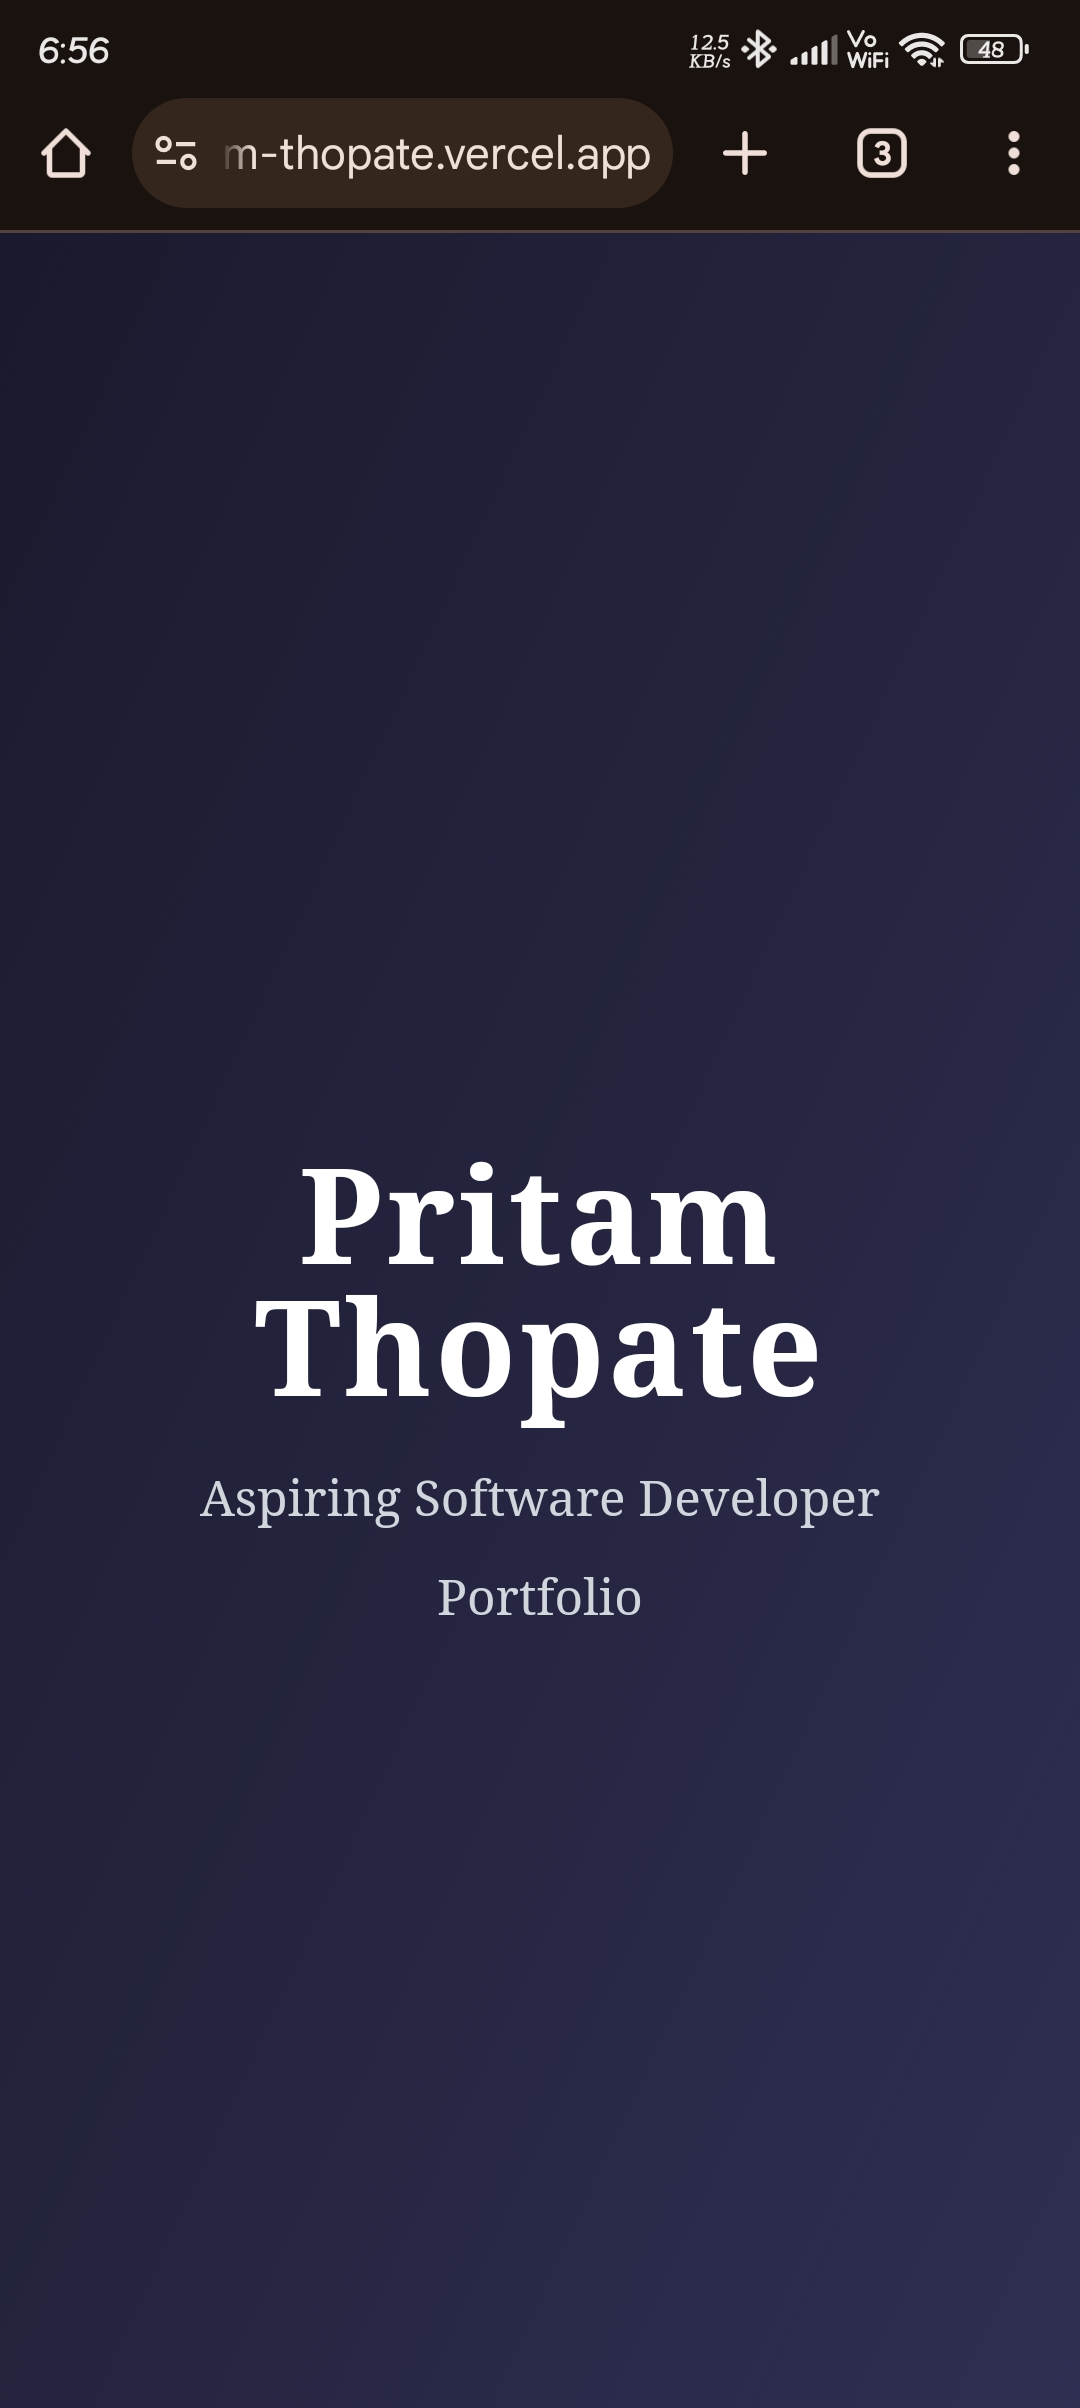
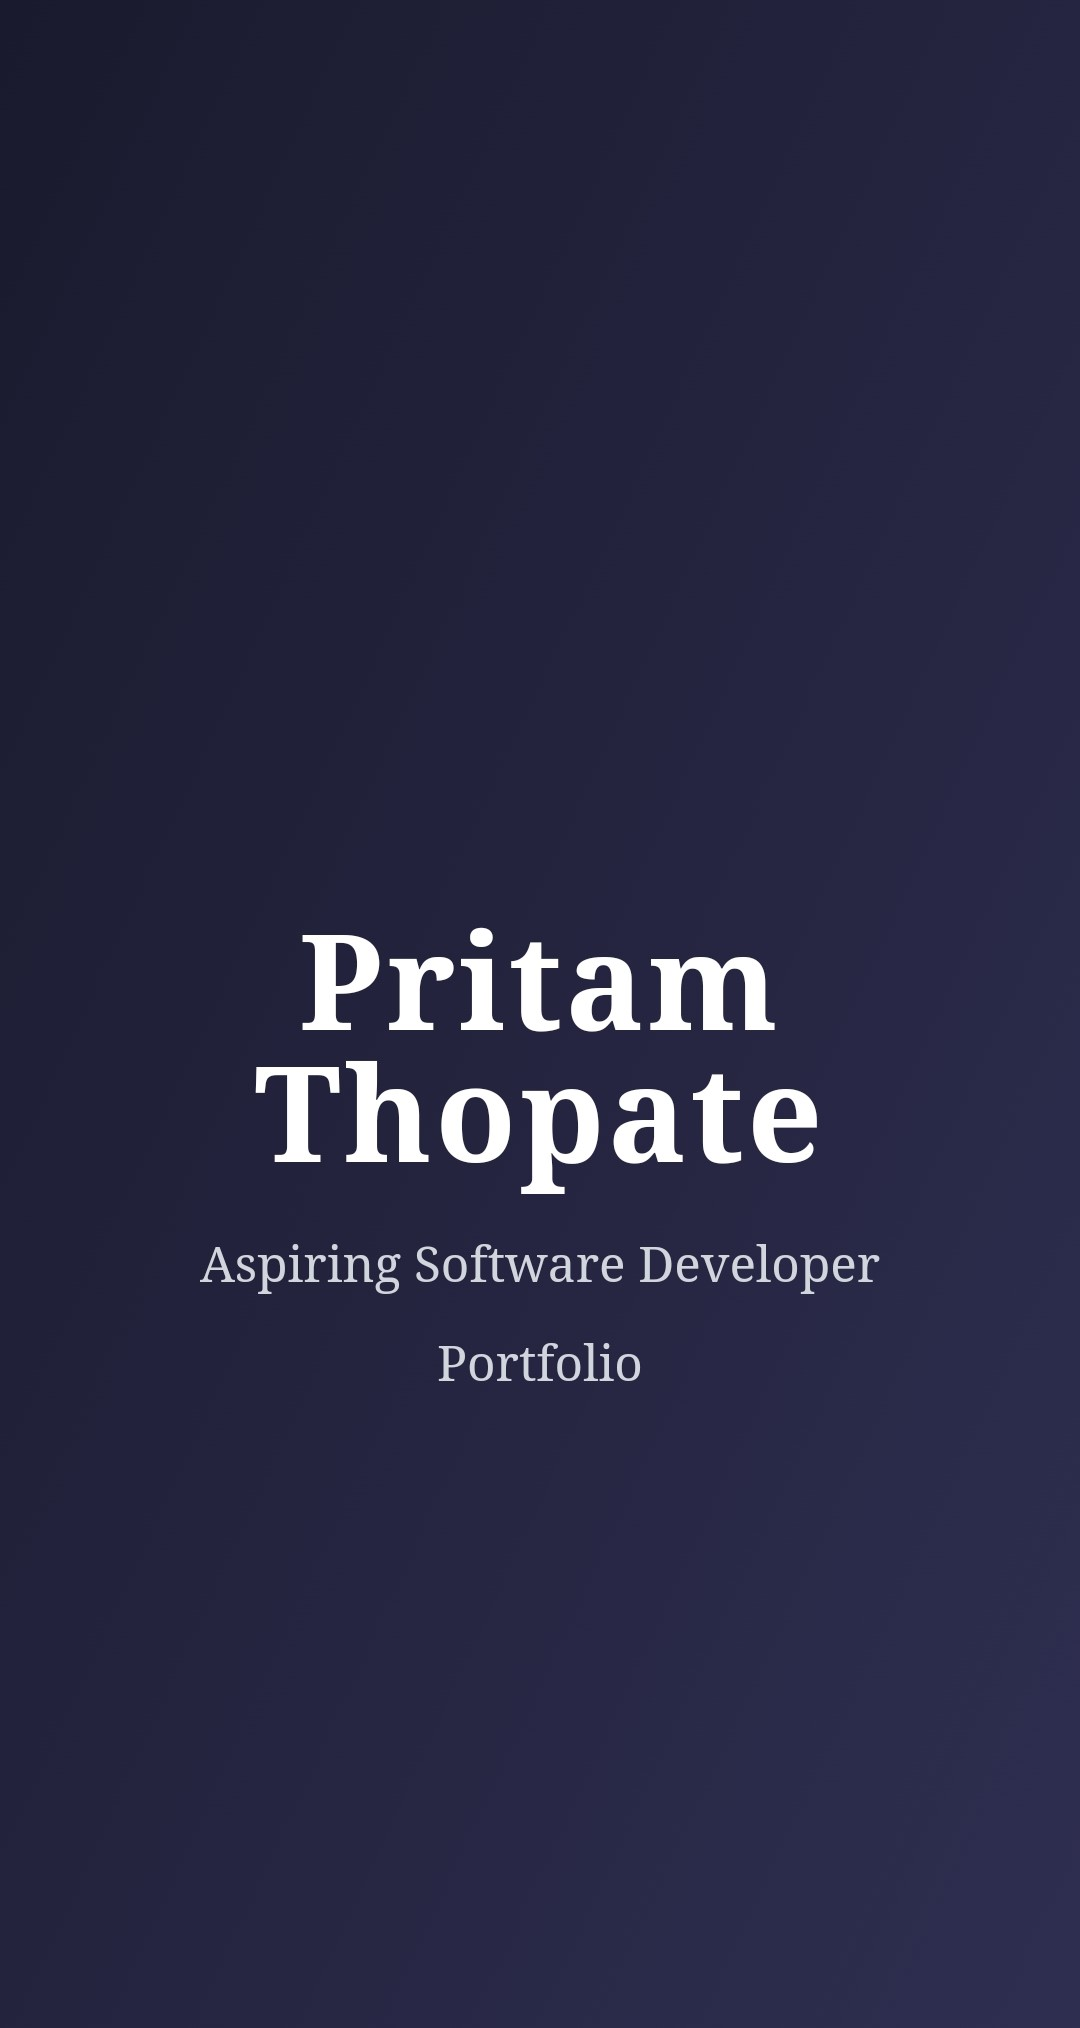
Images added with changes

diff --git a/README.md b/README.md
@@ -4,7 +4,7 @@ Welcome to my personal **Linktree-style portfolio** built using **Next.js** and 
 
 ## 🔗 Live Demo
 
-👉 [Click here to view live](linktree-git-main-pritam-thopate.vercel.app)  
+👉 [Click here to view live](https://linktree-tau-one.vercel.app)  
 
 ---
 
@@ -20,11 +20,10 @@ Welcome to my personal **Linktree-style portfolio** built using **Next.js** and 
 
 ## 📸 Screenshots
 
-### Splash Screen  
-![Splash Screen](/Linktree/public/home.jpg)
-
-### Linktree Page  
-![Linktree](/Linktree/public/main.jpg)
+<div align="center">
+  <img src="public/home.jpg" alt="Splash Screen" width="45%" />
+  <img src="public/main.jpg" alt="Linktree Page" width="45%" />
+</div>
 
 ---
 
